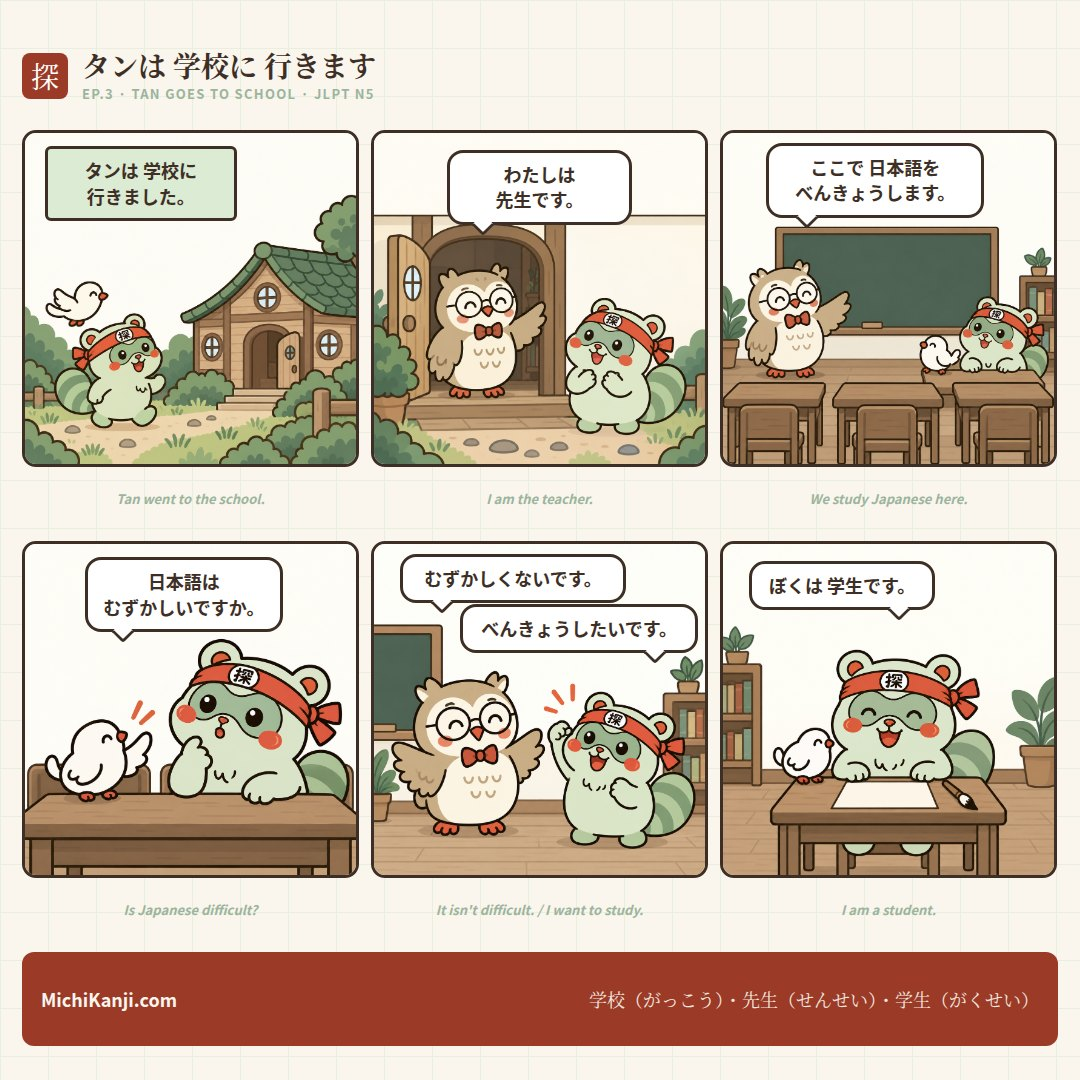
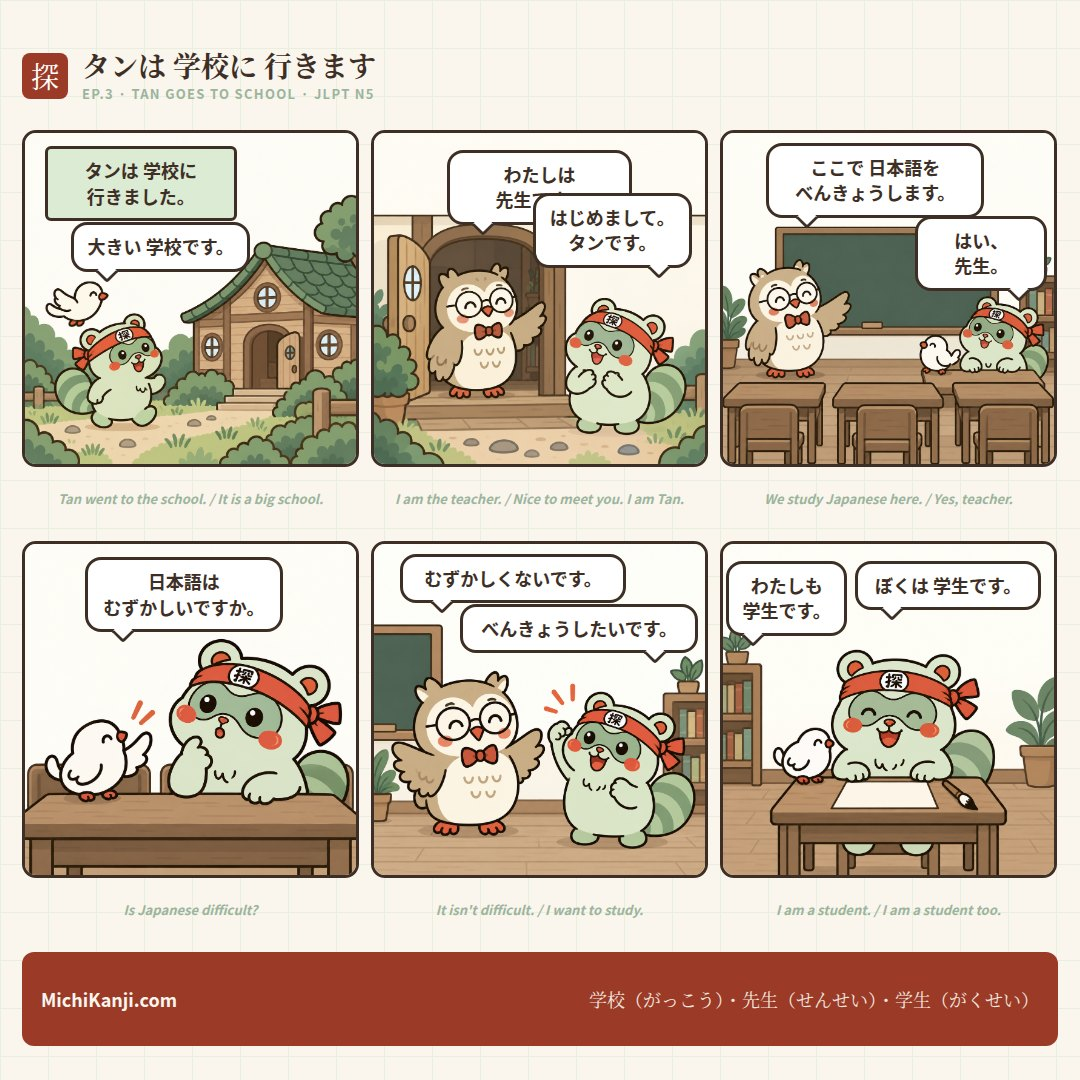
stories: ep-03 expanded dialogue

diff --git a/data/stories/ep-03.ts b/data/stories/ep-03.ts
@@ -32,6 +32,7 @@ export const EPISODE: Episode = {
     art: "/stories/tan-goes-to-school/p1.webp",
     lines: [
       { speaker: "narration", ja: "タンは 学校に 行きました。", en: "Tan went to the school.", bubble: { x: 6, y: 4, w: 58, tail: null } },
+      { speaker: "tan", ja: "大きい 学校です。", en: "It is a big school.", bubble: { x: 14, y: 27, w: 54, tail: "bl" } },
     ],
   },
   {
@@ -40,6 +41,7 @@ export const EPISODE: Episode = {
     art: "/stories/tan-goes-to-school/p2.webp",
     lines: [
       { speaker: "sensei", ja: "わたしは 先生です。", en: "I am the teacher.", bubble: { x: 22, y: 5, w: 56, tail: "bl" } },
+      { speaker: "tan", ja: "はじめまして。 タンです。", en: "Nice to meet you. I am Tan.", bubble: { x: 48, y: 18, w: 48, tail: "br" } },
     ],
   },
   {
@@ -48,6 +50,7 @@ export const EPISODE: Episode = {
     art: "/stories/tan-goes-to-school/p3.webp",
     lines: [
       { speaker: "sensei", ja: "ここで 日本語を べんきょうします。", en: "We study Japanese here.", bubble: { x: 13, y: 3, w: 66, tail: "bl" } },
+      { speaker: "tan", ja: "はい、先生。", en: "Yes, teacher.", bubble: { x: 58, y: 25, w: 40, tail: "br" } },
     ],
   },
   {
@@ -72,7 +75,8 @@ export const EPISODE: Episode = {
     beat: "Payoff — Tan is a student now",
     art: "/stories/tan-goes-to-school/p6.webp",
     lines: [
-      { speaker: "tan", ja: "ぼくは 学生です。", en: "I am a student.", bubble: { x: 8, y: 5, w: 56, tail: "br" } },
+      { speaker: "tan", ja: "ぼくは 学生です。", en: "I am a student.", bubble: { x: 40, y: 5, w: 56, tail: "bl" } },
+      { speaker: "chun", ja: "わたしも 学生です。", en: "I am a student too.", bubble: { x: 1, y: 5, w: 36.5, tail: "bl" } },
     ],
   },
   ],
